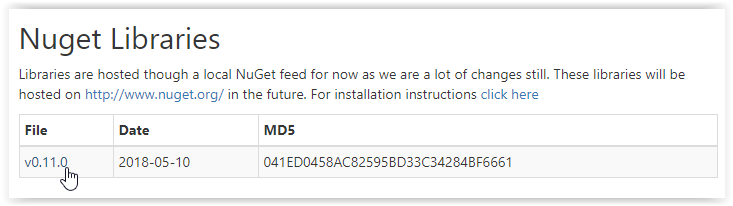
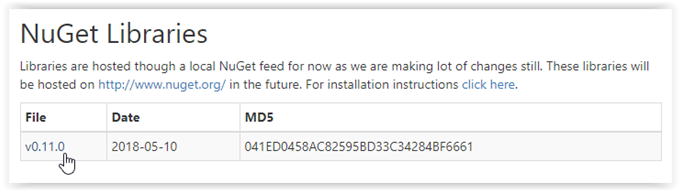
Changed all occurrences of "MakeCode" to "Microsoft MakeCode" and fixed typos. fixes #13

diff --git a/start-making/intro.md b/start-making/intro.md
@@ -1,21 +1,21 @@
 # Start Making
 ---
-![MakeCode Blocks](images/makecode-screen.png)
+![Microsoft MakeCode Blocks](images/makecode-screen.png)
 
 To get started with the BrainPad you don't need to install any software. You don't even need a BrainPad -- just use the online simulator! Microsoft MakeCode makes it all possible.
 
 > [!Tip]
-> The BrainPad can also be programmed in the same way professional developers do. Depending on your goals and skill level, you can [**Go Beyond**](../go-beyond/intro.md) MakeCode and start coding using .NET and Visual Studio when you are ready.
+> The BrainPad can also be programmed in the same way professional developers do. Depending on your goals and skill level, you can [**Go Beyond**](../go-beyond/intro.md) Microsoft MakeCode and start coding using .NET and Visual Studio when you are ready.
 
 ## Microsoft MakeCode
-Microsoft MakeCode is a great way to learn programming. MakeCode allows you to drag and drop blocks to create programs while seeing the results on a simulated BrainPad. MakeCode also has a JavaScript program editor. When you change your block program MakeCode changes your text (JavaScipt) program for you. Changes made to the text program will automatically show up as changes to your block program.
+Microsoft MakeCode is a great way to learn programming. Microsoft MakeCode allows you to drag and drop blocks to create programs while seeing the results on a simulated BrainPad. Microsoft MakeCode also has a JavaScript program editor. When you change your block program Microsoft MakeCode changes your text (JavaScipt) program for you. Changes made to the text program will automatically show up as changes to your block program.
 
 When you get your program working on the simulator, you can just drag and drop it to run it on the real BrainPad!
 
 <iframe width="560" height="315" src="https://www.youtube.com/embed/nijKM_TLoxM?rel=0" frameborder="0" allowfullscreen></iframe>
 
 > [!Tip]
-> The BrainPad has a simulator in [**MakeCode**](https://makecode.brainpad.com). This means you can start making even if you do not have a BrainPad yet.
+> The BrainPad has a simulator in [**Microsoft MakeCode**](https://makecode.brainpad.com). This means you can start making even if you do not have a BrainPad yet.
 
 ## A Quick Test!
 Run this quick test to verify your BrainPad is ready:
@@ -31,7 +31,7 @@ Run this quick test to verify your BrainPad is ready:
 If any of the steps above failed, visit this [Troubleshooting Guide](../resources/troubleshooting-guide.md)
 
 ## You Are Ready
-The BrainPad MakeCode section has instructions, tutorials, and sample programs:
+The BrainPad's Microsoft MakeCode section has instructions, tutorials, and sample programs:
 
 ### [**makecode.brainpad.com**](https://makecode.brainpad.com)
 

diff --git a/resources/downloads.md b/resources/downloads.md
@@ -2,14 +2,14 @@
 ---
 
 ## Visual Studio Project System
-The extension is what gets loaded on Visual Studio to allow it to communicate with the BrainPad. For installation instructions [click here](../go-beyond/system-setup.md#tinyclr-os-project-system).
+This extension is what gets loaded into Visual Studio to allow it to communicate with the BrainPad. For installation instructions [click here](../go-beyond/system-setup.md#tinyclr-os-project-system).
 
 File | Date | MD5
 --- | --- | ---
 [v0.11.0](http://files.ghielectronics.com/downloads/TinyCLR/Extensions/TinyCLR%20OS%20Project%20System%20v0.11.0.vsix) | 2018-05-10 | ECED507FCAF84B7104A8470126769F48
 
-## Nuget Libraries
-Libraries are hosted though a local NuGet feed for now as we are a lot of changes still. These libraries will be hosted on http://www.nuget.org/ in the future. For installation instructions [click here](../go-beyond/system-setup.md#download-and-install-the-tinyclr-nuget-packages)
+## NuGet Libraries
+Libraries are hosted though a local NuGet feed for now as we are making lot of changes still. These libraries will be hosted on http://www.nuget.org/ in the future. For installation instructions [click here](../go-beyond/system-setup.md#download-and-install-the-tinyclr-nuget-packages).
 
 File | Date | MD5
 --- | --- | ---
@@ -25,7 +25,7 @@ File | Date | MD5
 
 ## Bootloader
 This is the TinyCLR OS [BrainPad](http://www.brainpad.com) bootloader.
-See the [DFU Files](dfu-files.md) page for instructions on loading the loader's DFU file.
+See the [DFU Files](dfu-files.md) page for instructions on loading DFU files.
 
 File | Date | MD5
 --- | --- | ---

diff --git a/advanced/visual-studio.md b/advanced/visual-studio.md
@@ -1,6 +1,6 @@
 # Using Visual Studio with the BrainPad
 ---
-We recommend trying Microsoft Visual Studio when you're ready to move beyond MakeCode.  Visual Studio is the most popular desktop program development environment and is used by professional programmers the world over. The experience you gain programming the BrainPad in Visual Studio also applies to programming desktop computers and smart phones, and Visual Studio's advanced debugging and code completion features make writing code a breeze!
+We recommend trying Microsoft Visual Studio when you're ready to move beyond Microsoft MakeCode.  Visual Studio is the most popular desktop program development environment and is used by professional programmers the world over. The experience you gain programming the BrainPad in Visual Studio also applies to programming desktop computers and smart phones, and Visual Studio's advanced debugging and code completion features make writing code a breeze!
 
 ### Step 1: Install Visual Studio on your computer.
 

diff --git a/resources/older-brainpad.md b/resources/older-brainpad.md
@@ -18,7 +18,7 @@ In other words, whenever you are instructed to press and hold reset for three se
 
 This BrainPad was much larger. You can identify it by the Traffic Light in the top right Corner. This version uses the G30 chipset.
 
-Unfortunately, this version only works with TinyCLR OS. It does not work with MakeCode or any other software. We try to keep the the latest TinyCLR OS BrainPad libraries compatible and workable with this board but we recommend switching to the production BrainPad.
+Unfortunately, this version only works with TinyCLR OS. It does not work with Microsoft MakeCode or any other software. We try to keep the the latest TinyCLR OS BrainPad libraries compatible and workable with this board but we recommend switching to the production BrainPad.
 
 To use with TinyCLR OS, follow the instructions on the GHI Electronics [G30 support page](http://docs.ghielectronics.com/hardware/scm/g30.html). From there you can use all C# and VB examples as is or with minor changes.
 

diff --git a/resources/troubleshooting-guide.md b/resources/troubleshooting-guide.md
@@ -24,7 +24,7 @@ This virtual drive opens a window containing a text file that contains informati
 When the BrainPad virtual drive window is open (see Bootloader section), download [this demo]() file and drag it into the virtual drive window. 
 
 ## TinyCLR OS
-We recommend starting with MakeCode to verify the hardware is functional first. Then, load TinyCLR OS as detailed in the [System Setup](../go-beyond/system-setup.md). Once loaded, your PC will detect a TinyCLR OS device as shown below.
+We recommend starting with Microsoft MakeCode to verify the hardware is functional first. Then, load TinyCLR OS as detailed in the [System Setup](../go-beyond/system-setup.md). Once loaded, your PC will detect a TinyCLR OS device as shown below.
 
 ![Device Manager](images/device-manager.png)
 

diff --git a/go-beyond/intro.md b/go-beyond/intro.md
@@ -7,7 +7,7 @@ To continue, start by installing Visual Studio on your computer. Instructions ar
 ![VB sample code](images/visual-studio-screen.png)
 
 > [!Tip]
-> An easier path to [**Start Making**](../start-making/intro.md) with the BrainPad is through MakeCode, an online tool with nothing to install. It's your choice depending on your goals and skill level.
+> An easier path to [**Start Making**](../start-making/intro.md) with the BrainPad is through Microsoft MakeCode, an online tool with nothing to install. It's your choice depending on your goals and skill level.
 
 ---
 You are on the documentation website for the BrainPad. The main website is found at [www.brainpad.com](http://www.brainpad.com/)

diff --git a/go-beyond/system-setup.md b/go-beyond/system-setup.md
@@ -38,7 +38,7 @@ After installation is complete, click on the `Launch` button. You will be asked 
 If Visual Studio is open, close it before continuing with the TinyCLR installation.
 
 Download the [TinyCLR Visual Studio Project System](../resources/downloads.md#visual-studio-project-system) from our [Downloads](../resources/downloads.md) page.
-![Download Visual Studio Project System](images/download-vs-project-system.png)
+[![Download Visual Studio Project System](images/download-vs-project-system.png)](../resources/downloads.md#visual-studio-project-system)
 
 After the download is complete, click on the up arrow next to the download name at the bottom of the screen as shown below.
 

diff --git a/start-making/projects.md b/start-making/projects.md
@@ -3,9 +3,9 @@
 > [!Tip]
 > Also see the more advanced [**TinyCLR OS Projects**](../go-beyond/projects/intro.md)
 
-![MakeCode Screen Image](images/makecode-screen.png)
+![Microsoft MakeCode Screen Image](images/makecode-screen.png)
 
-All MakeCode projects, curriculum and lessons are found at [makecode.brainpad.com](https://makecode.brainpad.com/)
+All Microsoft MakeCode projects, curriculum and lessons are found at [makecode.brainpad.com](https://makecode.brainpad.com/)
 
 ---
 You are on the documentation website for the BrainPad. The main website is found at [www.brainpad.com](http://www.brainpad.com/)

diff --git a/go-beyond/other-software/intro.md b/go-beyond/other-software/intro.md
@@ -1,6 +1,6 @@
 # Other Software Options
 ---
-The BrainPad focuses on Start Making (link) with MakeCode and lets you Go Beyond (link) with TinyCLR OS and .NET. However, there are other software options that also work on the BrainPad. We only give you a starting point in case you want to test the other possibilities.
+The BrainPad focuses on Start Making (link) with Microsoft MakeCode and lets you Go Beyond (link) with TinyCLR OS and .NET. However, there are other software options that also work on the BrainPad. We only give you a starting point in case you want to test the other possibilities.
 
 ---
 

diff --git a/go-beyond/projects/intro.md b/go-beyond/projects/intro.md
@@ -4,7 +4,7 @@
 This is a collection of C# projects ranging from easy to advanced. If you want to use Visual Basic, please refer to the [C# to Visual Basic](../vb/csharp-to-vb.md) page.
 
 > [!Tip]
-> Also see the simpler [MakeCode Projects](../../start-making/projects.md)
+> Also see the simpler [Projects](../../start-making/projects.md)
 
 |  |  |
 |--|--|

diff --git a/resources/intro.md b/resources/intro.md
@@ -5,7 +5,7 @@ This is a quick reference page for miscellaneous BrainPad resources.
 ## Communities
 
 * [BrainPad Discussion Forum](https://forums.ghielectronics.com/c/brainpad)
-* [MakeCode for the BrainPad](https://makecode.brainpad.com/)
+* [Microsoft MakeCode for the BrainPad](https://makecode.brainpad.com/)
 
 ## BrainPad Microcontroller Information
 

diff --git a/go-beyond/components/servo-motors.md b/go-beyond/components/servo-motors.md
@@ -23,5 +23,3 @@ Positional servo motors only accept position commands. Positional servo motors o
 * `BrainPad.ServoMotors.ServoOne.Stop()`
 
 * `BrainPad.ServoMotors.ServoTwo.Stop()`
-
-* `BrainPad.ServoMotors.Servo{*One* or *Two*}.Stop()`
